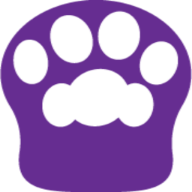
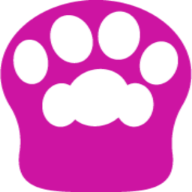
1.0

diff --git a/public/js/logic.js b/public/js/logic.js
@@ -23,7 +23,7 @@ const logoGr = document.querySelector('#dark-mode');
 
 const logoWhAnim = bodymovin.loadAnimation({
     container: logoWh, // Required
-    path: '/img/lottie/Pawnimation-white.json', // Required
+    path: '/img/lottie/Pawnimation-white-b.json', // Required
     renderer: 'svg', // Required
     loop: true, // Optional
     autoplay: false, // Optional
@@ -32,7 +32,7 @@ const logoWhAnim = bodymovin.loadAnimation({
 
 const logoGrAnim = bodymovin.loadAnimation({
     container: logoGr, // Required
-    path: '/img/lottie/Pawnimation-grey.json', // Required
+    path: '/img/lottie/Pawnimation-grey-b.json', // Required
     renderer: 'svg', // Required
     loop: true, // Optional
     autoplay: false, // Optional

diff --git a/public/css/app.css b/public/css/app.css
@@ -49,6 +49,12 @@ body {
     height: clamp(40px, 8vw, 4rem);
 }
 
+#logo-li {
+    display: flex;
+    align-items: center;
+    justify-content: center;
+}
+
 #logo svg {
     /* Styles for lottie */
     padding: 5px;
@@ -224,10 +230,16 @@ nav {
     }
 
     #logo svg {
-        top: 0.1em;
+        /* Lottie */
+        padding: 0;
+        /* Other svgs */
+        /* top: 0.1em; */
     }
     #dark-mode svg {
-        top: 0.1em;
+        /* Lottie */
+        padding: 0;
+        /* Other svgs */
+        /* top: 0.1em; */
     }
 }
 

diff --git a/resources/css/app.css b/resources/css/app.css
@@ -49,6 +49,12 @@ body {
     height: clamp(40px, 8vw, 4rem);
 }
 
+#logo-li {
+    display: flex;
+    align-items: center;
+    justify-content: center;
+}
+
 #logo svg {
     /* Styles for lottie */
     padding: 5px;
@@ -223,10 +229,16 @@ nav {
     }
 
     #logo svg {
-        top: 0.1em;
+        /* Lottie */
+        padding: 0;
+        /* Other svgs */
+        /* top: 0.1em; */
     }
     #dark-mode svg {
-        top: 0.1em;
+        /* Lottie */
+        padding: 0;
+        /* Other svgs */
+        /* top: 0.1em; */
     }
 }
 

diff --git a/resources/views/layout.blade.php b/resources/views/layout.blade.php
@@ -15,7 +15,7 @@
         <script type="module" src="/js/splide-extension-auto-scroll.min.js" defer></script>
         <script type="module" src="/js/logic.js" defer></script>
         <script type="module" src="/js/splide-checker.js" defer></script>
-        <title>Nekos</title>
+        <title>NekoSagashi</title>
     </head>
     <body>
         @auth
@@ -23,7 +23,7 @@
             <nav>
                 <ul class="navigation">
                     {{-- <li id="logo"><a href="/"><lottie><x-si-caterpillar /></lottie></a></li> --}}
-                    <li ><a id="logo" href="/"></a></li>
+                    <li id="logo-li"><a id="logo" href="/"></a></li>
                     {{-- <li class="navigation-item"><a href="/login">Manage Nekos</a></li> --}}
                     <li class="navigation-item"><a href="/neko/create">Add Neko</a></li>
                     <li class="navigation-item">

diff --git a/resources/views/users/login.blade.php b/resources/views/users/login.blade.php
@@ -2,7 +2,7 @@
 
 @section('content')
 
-<h1>Neko Owner Login</h1>
+<h1>Neko Helper Login</h1>
 
 <form id="neko-touroku" method="POST" action="/users/authenticate">
     @csrf
@@ -35,7 +35,7 @@
 
     <button type="submit" class="neko-touroku-btn">Yup, that's me</button>
 
-    <div>Don't have an account? <a href="/register">Join the Neko Owner Army!</a></div>
+    <div>Don't have an account? <a href="/register">Join the Neko Helper Army!</a></div>
 
 </form>
 

diff --git a/resources/views/nekos/index.blade.php b/resources/views/nekos/index.blade.php
@@ -3,7 +3,7 @@
 
         @section('content')
         
-        <h1 data-page="top-page">A Purrfect Dose of Love</h1>
+        <h1 data-page="top-page">Help these cuties find a new home</h1>
         <div class="splide" role="group" aria-label="Splide Basic HTML Example">
           <div class="splide__track">
                 <ul class="splide__list">

diff --git a/resources/views/nekos/create.blade.php b/resources/views/nekos/create.blade.php
@@ -23,7 +23,7 @@
     
     <div class="neko-touroku-input">
         <label class="neko-touroku-label-lg" for="tags">
-            Defining Features
+            Defining Features (Comma Separated)
         </label>
         <input type="text" name="tags" placeholder="Fluffy, Muffy, Duffy" value="{{old('tags')}}">
 

diff --git a/README.md b/README.md
@@ -1,0 +1,51 @@
+<p align="center"><a href="https://laravel.com" target="_blank"><img src="https://raw.githubusercontent.com/laravel/art/master/logo-lockup/5%20SVG/2%20CMYK/1%20Full%20Color/laravel-logolockup-cmyk-red.svg" width="400"></a></p>
+
+# Neko
+Help lost cats find a new home
+
+## My first Laravel project from the ground up. 
+
+Everything you see (except some icons and Neko photos) is made by me. MVC paradigm-based full CRUD, authentication, 1:M relationship web application. Did not use any UI libraries to fully test my vanilla CSS/JS knowledge (including latest features like animationend, @layer, clamp etc). 
+
+Users can register homeless cats or just cats they want someone to pick up and other users (unregistered as well) can provide their contact info for further discussion on a per-cat basis. 
+
+Obviously, even if you apply via dialog – nothing’s going to happen, because it’s just a project I needed to show I’m worth my junior salt in Laravel.
+
+I summed up my Laravel 9 findings in a multipage cheatsheet that might contain small inconsistencies, but based on it you can definitely build your own project without having to Google and experiment as much as I did.  
+
+## Other things I learned here: 
+1. Animating Dialog from display:none (::backdrop sync is quite “face-dropping” as some Japanese speakers might say)
+2. All things related to Laravel (from RESTful routing and CRUD to diverse DB seeding and authentication)
+3. Efficient use of clamp()
+4. Gradient border setup (In compliance with hypnotoad specifications (嘘))
+5. <button> and <a> elements within the same parent styling
+6. Form styling (it’s hell even with introduction of accent-color)
+7. Sometimes it’s far easier to use @keyframes/animation in combination with Lottie, might save you a lot of code lines
+ 
+## P.S.
+Be blessed by bokeneko and bakeneko.
+
+## Credits:
+### [Most .svg data](https://blade-ui-kit.com/blade-icons)
+
+### Unsplash heroes:
+- eric-han-Hd7vwFzZpH0
+- timo-volz-ZlFKIG6dApg
+- esteban-chinchilla-9m1OFDFAuss
+- long-ma-hxEAE88Onv0
+- anna-kozakova-L3jg0lOae2s
+- clement-falize-b9K_LTz079c
+- manja-vitolic-gKXKBY-C-Dk
+- kristina-yadykina-21NRDbMJF94
+- raoul-droog-yMSecCHsIBc
+- the3dragons-mSOUgRr7wyU
+- tran-mau-tri-tam-FbhNdD1ow2g
+- karina-vorozheeva-rW-I87aPY5Y (still no idea how you managed to take that picture, bravo)
+- lloyd-henneman-mBRfYA0dYYE
+- jae-park-7GX5aICb5i4
+- daria-shatova-46TvM-BVrRI
+- modcatshop-pdALzg0yN-8
+- alvan-nee-ZCHj_2lJP00
+
+### [Cat Purr Sound Compilation](https://www.youtube.com/watch?v=joilTJ7f8KY)
+
